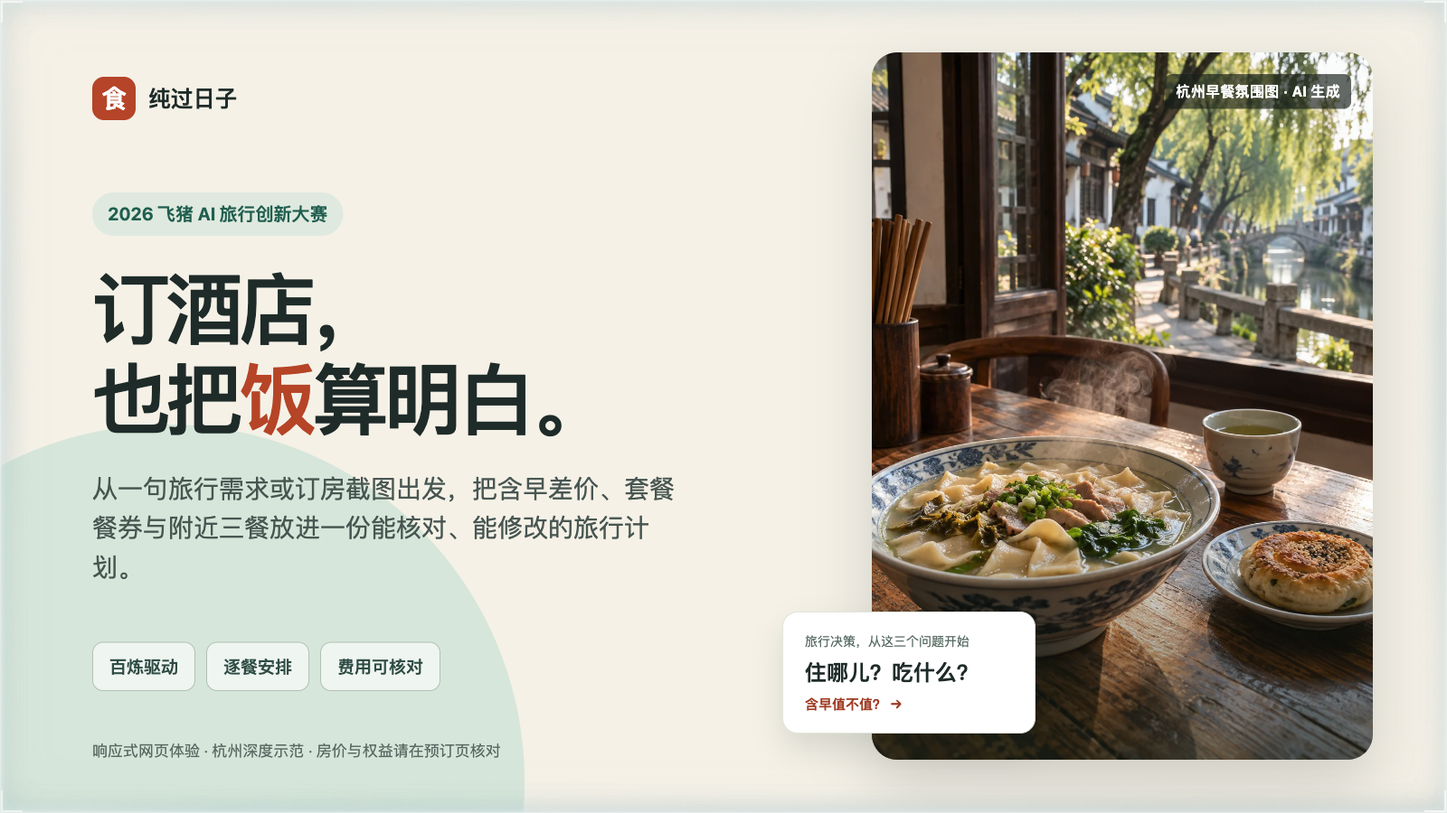
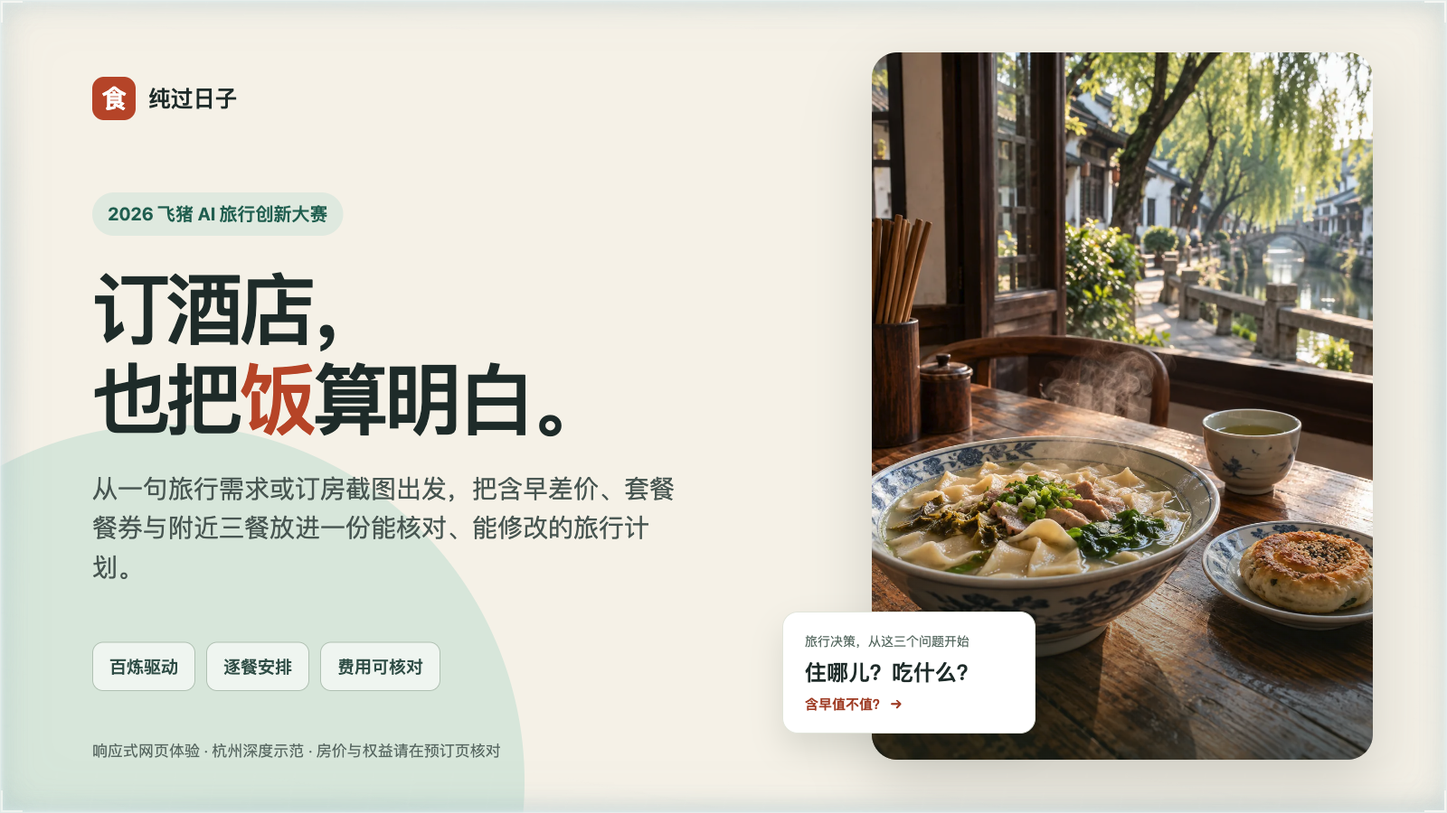
style: simplify visual captions

Changed region(s): [[0.7812, 0.0933, 0.9375, 0.1556]]

diff --git a/public/index.html b/public/index.html
@@ -8,10 +8,10 @@
 <main>
 <div aria-label="准备进度" class="journey wrap"><button class="journey-step active" data-pane="hotel" type="button"><b>1</b><span>开始旅行</span></button><span class="journey-line"></span><button class="journey-step" data-pane="preferences" type="button"><b>2</b><span>核对套餐</span></button><span class="journey-line"></span><button class="journey-step" data-pane="result" type="button"><b>3</b><span>吃饭计划</span></button></div>
 <div class="pane" id="hotelPane">
-<div class="start-pitch wrap"><span id="startCityLabel">杭州 · 从住处到餐桌</span><h1>酒店和三餐，<br/>放在一起算。</h1><p>选好住处，再把每一顿安排明白。<a href="#quickStart">已有订单？传截图 →</a></p><small class="start-photo-credit">杭州早餐氛围图 · AI 生成</small></div>
+<div class="start-pitch wrap"><span id="startCityLabel">杭州 · 从住处到餐桌</span><h1>酒店和三餐，<br/>放在一起算。</h1><p>选好住处，再把每一顿安排明白。<a href="#quickStart">已有订单？传截图 →</a></p></div>
 <section class="hero wrap hero-entry" id="quickStart">
 <div class="hero-copy"><div class="eyebrow"><span class="tiny-dot"></span> 酒店与三餐计划</div><h1>先选酒店，<br/>再把三餐<span class="title-local">算清楚</span>。</h1><p class="hero-intro">核对房价和早餐权益，再安排附近能吃到的每一顿。</p><div class="entry-upload" id="uploadEntry"><div class="upload-box"><span class="upload-icon">↥</span><div><strong>已有订房截图？</strong><p>上传房价与权益，先核对再计算。最多 3 张，请遮住个人信息。</p></div><label class="upload-button">上传截图 ↗<input accept="image/png,image/jpeg,image/webp" id="screenshot" multiple="" type="file"/></label></div><div aria-live="polite" class="helper" id="extractStatus"></div><button class="text-button" id="showExample" type="button">不知道截哪里？看示例 →</button><div class="example-panel hidden" id="examplePanel"><strong>真实飞猪页面应该截到这些信息</strong><p>2026-10-12 查到的同一酒店、同一晚、同房型、同卖家案例：无早 ¥303，单早 ¥362，早餐增量 ¥59。点图片可放大看悬浮价目说明；当前价格请以平台页面为准。</p><div class="real-shot-grid"><a href="/real-feizhu-no-breakfast.png" rel="noopener noreferrer" target="_blank"><img alt="飞猪真实预订页，无早房价303元，悬浮价目说明显示无早" src="/real-feizhu-no-breakfast-preview.webp" loading="lazy" decoding="async"/><span>无早 · ¥303 ↗</span></a><a href="/real-feizhu-one-breakfast.png" rel="noopener noreferrer" target="_blank"><img alt="飞猪真实预订页，单早房价362元，悬浮价目说明显示单早" src="/real-feizhu-one-breakfast-preview.webp" loading="lazy" decoding="async"/><span>单早 · ¥362 ↗</span></a></div><p>截图来自 2026-11-01 入住、2026-11-02 离店的公开商品页；两档都显示特价大床房和相同的限时取消截止时间。其他权益仍应进入预订页核对。</p><a download="纯过日子-截图测试模板.png" href="/sample-booking.png">下载虚构价格测试模板 ↓</a></div></div><section class="voice-workspace entry-voice" id="voiceWorkspace"><div class="voice-heading"><h2>也可以直接说需求</h2><button class="text-button entry-focus" id="startTrip" type="button">写下旅行想法 ↓</button></div><div class="voice-composer"><label class="sr-only" for="tripVoiceText">旅行需求</label><textarea id="tripVoiceText" placeholder="比如：周六去杭州住两晚，两大一小。想吃当地早餐，带娃少走路。含早多240元，帮我看看。" rows="2"></textarea><div class="composer-actions"><div class="record-tools"><button aria-label="录音说说旅行" class="record-button" id="recordTrip" type="button"><svg aria-hidden="true" viewbox="0 0 24 24"><rect height="12" rx="3" width="6" x="9" y="3"></rect><path d="M6 11v1a6 6 0 0 0 12 0v-1M12 18v3m-3 0h6"></path></svg><span>说一段</span></button><button class="text-button hidden" id="cancelRecording" type="button">取消录音</button><label class="audio-upload" title="上传已有语音">上传语音<input accept="audio/*" id="audioFile" type="file"/></label></div><button class="primary" id="understandTrip" type="button">帮我安排 ↗</button></div></div><div class="voice-samples"><button data-voice-sample="family" type="button">带娃少折腾</button><button data-voice-sample="early" type="button">早上要赶车</button><button data-voice-sample="local" type="button">想尝当地味</button></div><p class="voice-privacy">录音发送百炼转写，不保存在本服务；识别文字可修改。</p><div aria-live="polite" class="notice hidden" id="voiceStatus"></div><div class="voice-understanding hidden" id="voiceUnderstanding"></div><div class="hotel-grid" id="voiceCandidates"></div></section></div>
-<aside class="entry-companion"><div class="hero-art entry-cover"><img alt="杭州早餐氛围插画，场景为生成图" class="hero-photo" src="/hangzhou-breakfast-hero.webp" width="1024" height="1536" fetchpriority="high" decoding="async"/><div aria-hidden="true" class="city-poster-word" id="cityPosterWord">杭州</div><div class="photo-shade"></div><span class="photo-label" id="heroCityLabel">杭州 · 从住处到餐桌</span><div class="photo-caption"><span id="heroCityCaption">住得好，也吃得有滋味。</span><small id="heroCityCredit">杭州早餐氛围图 · AI 生成</small></div></div><div class="entry-companion-note"><span class="mini-label">体验完整流程</span><p>杭州住两晚，<br/>早餐和附近三餐怎么选？</p><div class="entry-preview-actions"><button class="text-button" id="tryDemo" type="button">查看示例方案 →</button></div><small>杭州示例 · 房价与套餐权益为测试值</small></div></aside></section>
+<aside class="entry-companion"><div class="hero-art entry-cover"><img alt="杭州早餐氛围图" class="hero-photo" src="/hangzhou-breakfast-hero.webp" width="1024" height="1536" fetchpriority="high" decoding="async"/><div aria-hidden="true" class="city-poster-word" id="cityPosterWord">杭州</div><div class="photo-shade"></div><span class="photo-label" id="heroCityLabel">杭州 · 从住处到餐桌</span><div class="photo-caption"><span id="heroCityCaption">住得好，也吃得有滋味。</span></div></div><div class="entry-companion-note"><span class="mini-label">体验完整流程</span><p>杭州住两晚，<br/>早餐和附近三餐怎么选？</p><div class="entry-preview-actions"><button class="text-button" id="tryDemo" type="button">查看示例方案 →</button></div><small>杭州示例 · 房价与套餐权益为测试值</small></div></aside></section>
 <section class="intro-line wrap"><span>还没选好住哪儿？</span><p>先找酒店，也能只安排附近几顿饭。</p><button class="text-button" id="manualEntryJump" type="button">自己找酒店 ↓</button></section>
 <section class="workspace wrap" id="hotelWorkspace"><div class="section-heading"><span class="step">01</span><div><h2>查找酒店</h2><p>选城市和日期，输入酒店名称。</p></div><span class="city-badge" id="cityBadge">杭州示范</span></div>
 <form class="search-form" id="searchForm"><label class="field city-field"><span>目的地</span><select id="city"><option value="杭州">杭州 · 示例城市</option></select></label><label class="field search-name"><span>酒店名称</span><input autocomplete="off" id="query" name="query" placeholder="输入酒店名称，例如索菲特西湖" required=""/></label><label class="field"><span>入住</span><input id="checkIn" required="" type="date"/></label><label class="field"><span>退房</span><input id="checkOut" required="" type="date"/></label><button class="primary" type="submit">找酒店 <span>↗</span></button></form>
@@ -24,7 +24,7 @@
 <div class="pane hidden" id="preferencesPane"><section class="workspace wrap preferences-workspace"><div class="preferences-main"><div class="section-heading"><span class="step">02</span><div><h2>先核对，再帮你选</h2><p id="tripSummary">同行人、预算和早上的安排，会影响含早是否值得。</p></div></div><div class="notice hidden" id="demoNotice"></div><div aria-live="polite" class="notice hidden" id="quoteContextStatus"></div><section aria-label="逐张核对订房截图" class="capture-review hidden" id="captureReview"></section><section aria-labelledby="quoteSectionTitle" class="quote-comparison-panel"><div class="subsection-heading"><span class="section-index">01 / 套餐</span><h3 id="quoteSectionTitle">把两档价格，放在一起看</h3><p>填入住全程总价，房型、退改和其他权益也要一起核对。</p></div><div class="quote-card-grid"><article class="quote-editor" data-quote-slot="A"><div class="quote-editor-heading"><span class="quote-letter">A</span><div><h4>不含早餐</h4><p>房费和早餐，分开安排</p></div></div><div class="quote-price-field"><label class="field"><span>不含早总价 · 元</span><input id="roomOnly" min="0" placeholder="全程房费" step="0.01" type="number"/></label></div><details class="quote-terms"><summary>房型与预订条件</summary><div class="quote-term-fields"><label class="field"><span>房型</span><input id="quoteAroomType" maxlength="400" placeholder="未提供可留空"/></label><label class="field"><span>退改条件</span><input id="quoteAcancellation" maxlength="400" placeholder="未提供可留空"/></label><label class="field"><span>其他权益</span><input id="quoteAotherTerms" maxlength="400" placeholder="未提供可留空"/></label></div></details></article><article class="quote-editor" data-quote-slot="B"><div class="quote-editor-heading"><span class="quote-letter">B</span><div><h4>包含早餐</h4><p>先确认每天能用几份</p></div></div><div class="quote-price-field"><label class="field"><span>含早总价 · 元</span><input id="roomWith" min="0" placeholder="同房型全程房费" step="0.01" type="number"/></label></div><div class="quote-breakfast-field"><label class="field"><span>每天含几份早餐</span><input id="breakfastCount" max="12" min="0" placeholder="不知道可留空" type="number"/></label></div><details class="quote-terms"><summary>房型与预订条件</summary><div class="quote-term-fields"><label class="field"><span>房型</span><input id="quoteBroomType" maxlength="400" placeholder="未提供可留空"/></label><label class="field"><span>退改条件</span><input id="quoteBcancellation" maxlength="400" placeholder="未提供可留空"/></label><label class="field"><span>其他权益</span><input id="quoteBotherTerms" maxlength="400" placeholder="未提供可留空"/></label></div></details><details class="package-fields"><summary>还有酒店餐券 / 自助餐套餐？</summary><div class="form-grid"><label class="field"><span>可使用的用餐次数</span><input id="mealRights" max="20" min="0" placeholder="次数，不是人数" type="number"/></label><label class="field"><span>适用餐次</span><select id="mealRightType"><option value="unknown">需要确认</option><option value="dinner">晚餐</option><option value="lunch">午餐</option><option value="either">午餐或晚餐</option></select></label></div><p>一次权益覆盖几人、要不要预约，以套餐条款为准。</p></details></article></div><div class="quote-confirmation"><label class="check-row"><input id="comparable" type="checkbox"/><span>我已确认两档价格的日期、房型、取消规则和其他权益相同</span></label><p>不清楚的项目先留空。只有条件可比，才把价差算作早餐钱。</p></div></section><section aria-labelledby="habitsTitle" class="trip-habits"><div class="subsection-heading"><span class="section-index">02 / 你们的习惯</span><h3 id="habitsTitle">几个人，想怎么吃？</h3><p>只填你知道的。缺少价格，也能先看看附近的选择。</p></div><div class="habits-presets"><div class="preset-row"><button class="chip" data-preset="couple" type="button">两个人，尝当地味</button><button class="chip" data-preset="family" type="button">带娃，少折腾</button><button class="chip" data-preset="package" type="button">住两晚，有晚餐券</button></div></div><div class="form-grid party-fields"><label class="field"><span>成人</span><input id="adults" max="12" min="1" required="" type="number" value="2"/></label><label class="field"><span>儿童</span><input id="children" max="8" min="0" required="" type="number" value="0"/></label><label class="field"><span>儿童年龄</span><input id="childAges" placeholder="例如：6, 9"/></label><label class="field"><span>这次更在意</span><select id="mealPriority"><option value="local">尝当地特色</option><option value="easy">省心、少走路</option><option value="budget">控制花费</option></select></label><label class="field full-grid"><span>忌口、过敏和想吃的</span><input id="dietary" placeholder="例如：不吃海鲜；花生过敏；想吃片儿川"/></label></div><div class="subsection-heading morning-heading"><h4>再给早晨留点安排</h4><p>真正吃得上的早餐，才值得买。</p></div><div class="form-grid morning-fields"><label class="field"><span>外出早餐预算 · 元/成人</span><input id="outsideBudget" min="0" placeholder="例如：35" step="0.01" type="number"/></label><label class="field"><span>准备在酒店吃几次早餐</span><input id="breakfastDays" max="30" min="0" placeholder="默认每天都用" type="number"/></label><label class="field"><span>早上通常几点出门</span><input id="morningDeparture" type="time"/></label><label class="field walk-field"><span>从酒店出发，最多走多久</span><select id="walkLimit"><option value="10">10 分钟以内</option><option selected="" value="15">15 分钟以内</option><option value="25">25 分钟以内</option></select></label></div></section><div class="form-actions"><button class="text-button" data-pane="hotel" type="button">← 改酒店 / 补截图</button><div class="notice hidden" id="preferenceNotice" role="status"></div><button class="primary" id="makePlan" type="button">看看怎么选、怎么吃 ↗</button></div></div><aside class="right-column verification-aside"><span class="mini-label">核对这一遍，就有底气了</span><h3>不只看差价，<br/>也看能不能用上。</h3><ol class="verification-list"><li><b>同一家酒店、同一段日期</b><span>换了住处或日期，旧报价需要重新核对。</span></li><li><b>房型与退改是否相同</b><span>有别的权益，差价就不只是一顿早餐。</span></li><li><b>谁同行，早上几点走</b><span>儿童收费、早餐份数和开餐时间，可能改变选择。</span></li></ol><p>暂时不清楚的先留空，方案里会把待确认的事说清楚。</p></aside></section></div>
 <div class="pane result-layout wrap hidden" id="resultPane"><section class="workspace wrap hidden" id="planSection"><div class="section-heading"><span class="step">03</span><div><h2>这趟，怎么住也怎么吃</h2><p id="resultTripSummary"></p></div><div class="plan-export-actions"><button class="secondary" id="sharePlan" type="button">生成分享卡 ↗</button><button class="text-button" id="savePlan" type="button">下载文字 ↓</button></div></div><section aria-label="本次吃法与预算" class="plan-decision" id="planDecision"><div class="decision-kicker"><span class="section-index">先看怎么选</span><nav aria-label="方案内容" class="decision-jumps"><a href="#mealPlanWorkspace">三餐安排 ↓</a><a href="#nearbySection">附近挑店 ↗</a></nav></div><div class="plan-overview" id="planOverview"></div><section aria-label="早餐吃法与预算比较" class="breakfast-comparison" id="breakfastComparison"></section></section><div class="plan-tabs"><button class="active" data-result-tab="all" type="button">全部安排</button><button data-result-tab="breakfast" type="button">只看早餐</button><button data-result-tab="restaurants" type="button">先找餐馆 ↗</button></div><section aria-label="逐餐安排与附近选店" class="meal-workbench" id="mealPlanWorkspace"><div class="meal-itinerary"><section class="plan-refine"><span>这顿想换？说一句就好</span><div><input aria-label="用一句话调整方案" id="refineText" placeholder="比如：只用一次酒店早餐，步行别超过10分钟"/><button aria-label="录音调整方案" class="record-button refine-record" id="recordRefine" type="button">🎙 说</button><button class="secondary" id="refinePlan" type="button">调整 ↗</button></div><p aria-live="polite" id="refineStatus"></p></section><div class="timeline-head"><div><span class="mini-label">逐餐计划</span><h3>把每顿饭接起来</h3></div><p>路线查过的餐馆可以加入计划。菜单、营业和忌口请再确认。</p></div><div class="timeline" id="timeline"></div><div class="form-actions"><button class="text-button" data-pane="preferences" type="button">← 调整人数、预算和偏好</button><button class="secondary" data-pane="discover" type="button">再看看杭州好好吃</button></div></div><section class="workspace wrap hidden" id="nearbySection"><div class="section-heading"><span class="step">↗</span><div><h2>从酒店出发，挑一顿好吃的</h2><p>点地图或门店，看看实际步行时间，再加入备选。</p></div></div><div class="nearby-tools"><button class="chip active" data-keyword="早餐" type="button">早餐</button><button class="chip" data-keyword="杭帮菜" type="button">当地正餐</button><button class="chip" data-keyword="自助餐" type="button">自助餐</button><button class="chip" data-keyword="" type="button">所有餐饮</button></div><div aria-live="polite" class="notice hidden" id="nearbyNotice"></div><div class="map-explorer" id="mapExplorer"><div class="map-topline"><div><span class="mini-label">从住处走到餐桌</span><h3 id="mapExplorerTitle">附近有什么好吃的</h3><p>点一家店，看看方位、路线与用餐笔记。</p></div><button aria-expanded="false" class="map-expand" id="expandMap" type="button">展开地图 ↗</button></div><div aria-label="地图餐次筛选" class="map-filter-bar"><button class="active" data-map-keyword="早餐" type="button">早餐</button><button data-map-keyword="杭帮菜" type="button">当地正餐</button><button data-map-keyword="自助餐" type="button">自助餐</button><button data-map-keyword="" type="button">所有餐饮</button></div><div class="map-body"><div class="map-surface"><svg aria-label="酒店周边餐饮方位图，可拖动、缩放并选择门店" class="nearby-map" id="nearbyMap" role="img" viewbox="0 0 1000 640"><defs><pattern height="32" id="mapDots" patternunits="userSpaceOnUse" width="32"><circle cx="2" cy="2" fill="currentColor" opacity=".16" r="1.1"></circle></pattern></defs><rect fill="url(#mapDots)" height="3000" width="3000" x="-1000" y="-1000"></rect><g id="mapRings"></g><g id="mapPins"></g></svg><div class="map-controls"><button aria-label="放大方位图" id="mapZoomIn" type="button">＋</button><button aria-label="缩小方位图" id="mapZoomOut" type="button">－</button><button aria-label="地图回到酒店" id="mapReset" type="button">⌖</button></div><span aria-hidden="true" class="map-north">N ↑</span><span class="map-legend"><i></i> 酒店 <i></i> 餐馆</span></div><div class="map-side"><div class="map-place-choices" id="mapPlaceChoices"></div><div class="map-place-detail" id="mapPlaceDetail"><p>选一家店，看看步行时间和你的用餐笔记。</p></div></div></div><p class="map-caveat">根据高德地点坐标绘制的方位示意，不是街道地图；步行时间以高德路径规划为准。店铺评分、价格和营业信息仅供参考。</p></div><div class="nearby-grid" id="nearbyResults"></div></section></section><details class="plan-evidence"><summary><span>费用怎么算，预订前问什么</span><span class="details-note">展开核对依据与酒店资料</span></summary><div class="plan-evidence-body"><div class="result-grid"><article class="result-card accent"><div class="result-top"><span>早餐怎么选</span><span>01</span></div><h3 id="breakfastHeadline"></h3><div id="breakfastDetails"></div></article><article class="result-card"><div class="result-top"><span>酒店餐券怎么用</span><span>02</span></div><h3 id="buffetHeadline"></h3><div id="buffetDetails"></div></article></div><article class="ai-explain"><div class="ai-explain-top"><span>预订前，先问清这几件事</span><div class="question-actions"><button class="text-button" id="refreshQuestions" type="button">更新核对清单</button><button class="text-button" id="copyQuestions" type="button">复制问店的话 ↗</button></div></div><div aria-live="polite" id="aiExplainStatus"></div><div id="aiExplainResult"></div></article></div></details></section>
 </div>
-<div class="pane hidden" id="discoverPane"> <section class="workspace wrap" id="cityFoodSection"><figure class="local-food-photo"><img src="/hangzhou-noodles-photo.jpg" width="1280" height="853" loading="lazy" decoding="async" alt="杭州奎元馆片儿川面实拍"/><figcaption><strong>到杭州，先吃一碗热乎的。</strong><a href="https://commons.wikimedia.org/wiki/File:Pian%27erchuan_noodles_at_Kuiyuanguan_(20190807110615).jpg" target="_blank" rel="noopener noreferrer">片儿川实拍 · N509FZ / CC BY-SA 4.0 ↗</a></figcaption></figure>
+<div class="pane hidden" id="discoverPane"> <section class="workspace wrap" id="cityFoodSection"><figure class="local-food-photo"><img src="/hangzhou-noodles-photo.jpg" width="1280" height="853" loading="lazy" decoding="async" alt="杭州奎元馆片儿川面实拍"/><figcaption><strong>到杭州，先吃一碗热乎的。</strong><a href="https://commons.wikimedia.org/wiki/File:Pian%27erchuan_noodles_at_Kuiyuanguan_(20190807110615).jpg" target="_blank" rel="noopener noreferrer">片儿川 · N509FZ / CC BY-SA 4.0 ↗</a></figcaption></figure>
 <div class="section-heading"><span class="step step-guide">味</span><div><h2>住在杭州，吃一点当地的</h2><p>想吃什么先收藏，再看看离酒店有多远。</p></div></div>
 <details class="data-details"><summary>这些推荐适合怎么用？</summary><p id="cityFoodCount">餐饮资料加载中…</p><p>特色菜是吃饭灵感，不代表每家店都供应。现有门店资料有品牌集中、时段较旧的情况；营业、菜单和忌口请在出发前确认。</p></details>
 <div class="nearby-tools" id="cityFoodModes"><button class="chip active" data-mode="breakfast" type="button">特色早餐</button><button class="chip" data-mode="main" type="button">午晚餐特色</button><button class="chip" data-mode="venues" type="button">餐馆专题</button><button class="chip" data-mode="rankings" type="button">杭州餐馆资料</button></div>

diff --git a/docs/showcase/journey.html b/docs/showcase/journey.html
@@ -1,4 +1,4 @@
 <!doctype html>
 <html lang="zh-CN"><head><meta charset="utf-8"><meta name="viewport" content="width=device-width,initial-scale=1"><title>纯过日子 · 从输入到计划</title><style>
 *{box-sizing:border-box}body{margin:0;background:#f4f5f2;color:#23302c;font-family:-apple-system,BlinkMacSystemFont,"PingFang SC","Microsoft YaHei",sans-serif}.canvas{width:1600px;height:900px;padding:60px 76px;background:#f6f7f4}.top{display:flex;align-items:end;justify-content:space-between}.eyebrow{font-size:18px;color:#bf512f;font-weight:800}.top h1{font-size:52px;letter-spacing:-.045em;margin:12px 0 0}.top p{font-size:19px;color:#66746c;margin:0 0 5px}.grid{display:grid;grid-template-columns:repeat(4,1fr);gap:20px;margin-top:42px}.card{height:605px;overflow:hidden;border:1px solid #e1e6de;border-radius:20px;background:white;box-shadow:0 10px 26px #293d3212}.card-head{height:146px;padding:24px 24px 16px}.no{font-size:16px;font-weight:800;color:#b84b2b}.card h2{font-size:25px;line-height:1.3;margin:12px 0 7px;letter-spacing:-.03em}.card p{font-size:15px;line-height:1.45;margin:0;color:#64736a}.shot{margin:0 12px 12px;height:440px;overflow:hidden;border-radius:12px;background:#edf0eb;border:1px solid #e5e8e3}.shot img{display:block;width:190%;height:auto;max-width:none}.card:nth-child(1) .shot img{transform:translate(-12px,0)}.card:nth-child(2) .shot img{transform:translate(-40px,-8px)}.card:nth-child(3) .shot img{transform:translate(-22px,-5px)}.card:nth-child(4) .shot img{transform:translate(-180px,-10px)}.bottom{display:flex;align-items:center;justify-content:space-between;margin-top:27px;padding:17px 23px;border-radius:13px;background:#e5efe8;color:#255747;font-size:18px}.bottom strong{font-weight:800}.bottom span{font-size:16px;color:#456c59}
-</style></head><body><div class="canvas"><div class="top"><div><span class="eyebrow">从输入到可执行的三餐</span><h1>四步，把旅途里的每顿饭接起来。</h1></div><p>以下均为 v1.3.0 实际运行截图</p></div><div class="grid"><article class="card"><div class="card-head"><span class="no">01 / 输入</span><h2>说需求或传截图</h2><p>百炼提取条件，原句和价格由人核对。</p></div><div class="shot"><img src="../screenshots/02-voice.jpg" alt="语音与文字入口实际截图"></div></article><article class="card"><div class="card-head"><span class="no">02 / 核对</span><h2>先看套餐条件</h2><p>同房型、同日期、同权益，才比较差价。</p></div><div class="shot"><img src="../screenshots/04-preferences.jpg" alt="套餐核对实际截图"></div></article><article class="card"><div class="card-head"><span class="no">03 / 安排</span><h2>按日期排每一顿</h2><p>早餐次数、附近门店和预算一起看。</p></div><div class="shot"><img src="../screenshots/03-plan.jpg" alt="三餐计划实际截图"></div></article><article class="card"><div class="card-head"><span class="no">04 / 调整</span><h2>只改指定的一顿</h2><p>百炼给候选，计算器核验，用户决定采用。</p></div><div class="shot"><img src="../screenshots/15-ai-meal-preview.jpg" alt="AI 单餐调整实际截图"></div></article></div><div class="bottom"><strong>AI 负责理解与建议，金额、日期、餐券资格由规则计算。</strong><span>所有演示价格为测试值 · 门店资料与营业情况请出行前核对</span></div></div></body></html>
+</style></head><body><div class="canvas"><div class="top"><div><span class="eyebrow">从输入到可执行的三餐</span><h1>四步，把旅途里的每顿饭接起来。</h1></div></div><div class="grid"><article class="card"><div class="card-head"><span class="no">01 / 输入</span><h2>说需求或传截图</h2><p>百炼提取条件，原句和价格由人核对。</p></div><div class="shot"><img src="../screenshots/02-voice.jpg" alt="语音与文字入口画面"></div></article><article class="card"><div class="card-head"><span class="no">02 / 核对</span><h2>先看套餐条件</h2><p>同房型、同日期、同权益，才比较差价。</p></div><div class="shot"><img src="../screenshots/04-preferences.jpg" alt="套餐核对画面"></div></article><article class="card"><div class="card-head"><span class="no">03 / 安排</span><h2>按日期排每一顿</h2><p>早餐次数、附近门店和预算一起看。</p></div><div class="shot"><img src="../screenshots/03-plan.jpg" alt="三餐计划画面"></div></article><article class="card"><div class="card-head"><span class="no">04 / 调整</span><h2>只改指定的一顿</h2><p>百炼给候选，计算器核验，用户决定采用。</p></div><div class="shot"><img src="../screenshots/15-ai-meal-preview.jpg" alt="AI 单餐调整画面"></div></article></div><div class="bottom"><strong>AI 负责理解与建议，金额、日期、餐券资格由规则计算。</strong><span>所有演示价格为测试值 · 门店资料与营业情况请出行前核对</span></div></div></body></html>

diff --git a/docs/showcase/cover.html b/docs/showcase/cover.html
@@ -1,4 +1,4 @@
 <!doctype html>
 <html lang="zh-CN"><head><meta charset="utf-8"><meta name="viewport" content="width=device-width,initial-scale=1"><title>纯过日子 · 参赛封面</title><style>
 *{box-sizing:border-box}body{margin:0;font-family:-apple-system,BlinkMacSystemFont,"PingFang SC","Microsoft YaHei",sans-serif;color:#21312e;background:#f3f2eb}.canvas{width:1600px;height:900px;position:relative;overflow:hidden;background:#f6f3ea}.canvas:before{content:"";position:absolute;left:-210px;bottom:-360px;width:790px;height:790px;border-radius:50%;background:#dce9df}.copy{position:absolute;left:102px;top:85px;z-index:2;width:790px}.brand{display:flex;align-items:center;gap:14px;font-size:25px;font-weight:800;letter-spacing:-.02em}.mark{display:grid;place-items:center;width:48px;height:48px;border-radius:13px;background:#bd4d2d;color:#fff;font-size:28px}.tag{display:inline-block;margin-top:80px;padding:10px 17px;border-radius:99px;background:#e3ece3;color:#236959;font-size:20px;font-weight:700}.title{margin:30px 0 22px;font-size:86px;line-height:1.16;letter-spacing:-.06em;font-weight:850}.title em{font-style:normal;color:#be4d2c}.lead{max-width:670px;font-size:28px;line-height:1.55;color:#52615c}.chips{display:flex;gap:12px;margin-top:62px}.chips span{border:1px solid #b9c8bb;border-radius:12px;padding:13px 18px;background:#fff9;font-size:19px;font-weight:700;color:#34564e}.foot{position:absolute;left:102px;bottom:57px;z-index:2;font-size:17px;color:#63736d}.photo{position:absolute;right:82px;top:58px;width:554px;height:783px;overflow:hidden;border-radius:28px;box-shadow:0 28px 70px #1d2a242d}.photo img{width:100%;height:100%;object-fit:cover;object-position:center 61%}.photo:after{content:"";position:absolute;inset:0;background:linear-gradient(180deg,transparent 65%,#17251ba5)}.photo-label{position:absolute;z-index:1;top:24px;right:24px;padding:8px 12px;border-radius:8px;background:#152019a8;color:white;font-size:16px;font-weight:700;letter-spacing:.02em}.sample{position:absolute;z-index:3;right:455px;bottom:88px;width:280px;padding:21px 24px;background:#fff;border:1px solid #e5e8df;border-radius:17px;box-shadow:0 18px 35px #243b3022}.sample small{font-size:14px;color:#60746b}.sample strong{display:block;margin:8px 0;font-size:24px}.sample span{font-size:15px;color:#a94529;font-weight:700}
-</style></head><body><div class="canvas"><div class="copy"><div class="brand"><span class="mark">食</span>纯过日子</div><span class="tag">2026 飞猪 AI 旅行创新大赛</span><h1 class="title">订酒店，<br>也把<em>饭</em>算明白。</h1><p class="lead">从一句旅行需求或订房截图出发，把含早差价、套餐餐券与附近三餐放进一份能核对、能修改的旅行计划。</p><div class="chips"><span>百炼驱动</span><span>逐餐安排</span><span>费用可核对</span></div></div><div class="photo"><img src="../../public/hangzhou-breakfast-hero.webp" alt="AI 生成的杭州早餐氛围图"><span class="photo-label">杭州早餐氛围图 · AI 生成</span></div><div class="sample"><small>旅行决策，从这三个问题开始</small><strong>住哪儿？吃什么？</strong><span>含早值不值？ →</span></div><div class="foot">响应式网页体验 · 杭州深度示范 · 房价与权益请在预订页核对</div></div></body></html>
+</style></head><body><div class="canvas"><div class="copy"><div class="brand"><span class="mark">食</span>纯过日子</div><span class="tag">2026 飞猪 AI 旅行创新大赛</span><h1 class="title">订酒店，<br>也把<em>饭</em>算明白。</h1><p class="lead">从一句旅行需求或订房截图出发，把含早差价、套餐餐券与附近三餐放进一份能核对、能修改的旅行计划。</p><div class="chips"><span>百炼驱动</span><span>逐餐安排</span><span>费用可核对</span></div></div><div class="photo"><img src="../../public/hangzhou-breakfast-hero.webp" alt="杭州早餐氛围图"></div><div class="sample"><small>旅行决策，从这三个问题开始</small><strong>住哪儿？吃什么？</strong><span>含早值不值？ →</span></div><div class="foot">响应式网页体验 · 杭州深度示范 · 房价与权益请在预订页核对</div></div></body></html>

diff --git a/public/product-ui.css b/public/product-ui.css
@@ -311,8 +311,6 @@ body[data-pane='result'] .nav-link[data-pane='result'] { color: var(--ui-ink); }
   .start-pitch h1 { margin: 7px 0 4px; color: #fff; font-size: 27px; line-height: 1.24; letter-spacing: -.035em; }
   .start-pitch p { margin: 0; color: #fffefa; font-size: 11px; line-height: 1.65; }
   .start-pitch p a { color: #fff; font-weight: 750; text-decoration: underline; text-underline-offset: 3px; margin-left: 5px; }
-  .start-photo-credit { align-self: flex-end; margin-top: 9px; color: #ffffffbf; font-size: 9px; }
-  body:not([data-city='杭州']) .start-photo-credit { display: none; }
   #hotelWorkspace { order: 1; margin-bottom: 10px; }
   #hotelPane .hero.hero-entry { order: 2; scroll-margin-top: 12px; }
   #hotelPane .intro-line, #hotelPane .demo-strip { display: none; }

diff --git a/public/app.js b/public/app.js
@@ -224,7 +224,6 @@ function applyCityVisual(){
   $('startCityLabel').textContent=`${name} · 从住处到餐桌`;
   $('heroCityLabel').textContent=`${name} · 从住处到餐桌`;
   $('heroCityCaption').textContent=name==='杭州'?'住得好，也吃得有滋味。':`到${name}，把一日三餐过得有滋味。`;
-  $('heroCityCredit').textContent=name==='杭州'?'杭州早餐氛围图 · AI 生成':'城市色彩海报';
   $('discoverNav').classList.toggle('hidden',name!=='杭州');
   const cuisine=cityCuisine[name]||`${name}特色菜`;
   const localChip=document.querySelector('#nearbySection .chip[data-local-cuisine]')||document.querySelector('#nearbySection .chip[data-keyword="杭帮菜"]');

diff --git a/docs/image-credits.md b/docs/image-credits.md
@@ -1,4 +1,3 @@
 # 图片来源
 
 - `public/hangzhou-noodles-photo.jpg`：杭州奎元馆片儿川面实拍，作者 N509FZ，2019 年 8 月 7 日。来源：[Wikimedia Commons](https://commons.wikimedia.org/wiki/File:Pian%27erchuan_noodles_at_Kuiyuanguan_(20190807110615).jpg)，许可：[CC BY-SA 4.0](https://creativecommons.org/licenses/by-sa/4.0/)。本站使用 Wikimedia Commons 提供的 1280 像素版本，并在页面中通过 `object-fit` 作显示裁切；未改动图片文件内容。
-- `public/hangzhou-breakfast-hero.webp`：本项目原有 AI 生成的杭州早餐氛围图，非真实门店或商品。页面中标明“AI 生成”。

diff --git a/README.md b/README.md
@@ -12,7 +12,7 @@
 
 ![从输入、核对到逐餐安排与调整的四步流程](docs/showcase/journey.png)
 
-> 流程图中的画面为 v1.3.0 实际运行截图；封面使用本项目 AI 生成的杭州早餐氛围图。当前公网体验仍为 v1.3.0，界面优化版本待完成后发布。
+> 当前公网体验仍为 v1.3.0，界面优化版本待完成后发布。
 
 ![实际运行首页](docs/screenshots/01-home.jpg)
 
